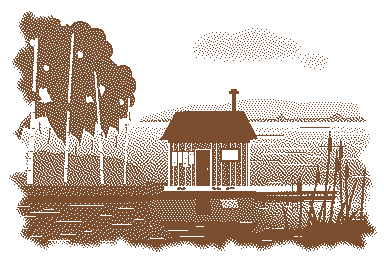
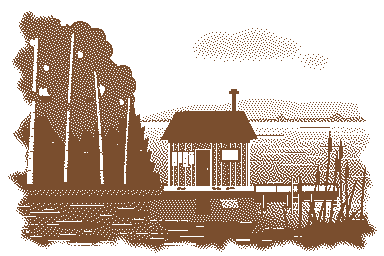
night closing with plate 2 in birch ink, a second form, and plate 1 finish

diff --git a/site/public/index.html b/site/public/index.html
@@ -40,7 +40,7 @@
 
   <main id="main">
     <section class="hero loops" aria-labelledby="hero-title">
-      <div class="wrap hero-grid">
+      <div class="wrap split">
         <div class="hero-copy">
           <h1 id="hero-title" class="display">Keep a sauna streak <span class="accent">together.</span></h1>
           <p class="lede">A weekly sauna streak for your family or your sauna crew. Everyone goes when they can, and you keep it together.</p>
@@ -256,10 +256,39 @@
       </div>
     </section>
 
-    <section class="closing" aria-labelledby="closing-title">
-      <div class="wrap">
-        <h2 id="closing-title" class="title">Your sauna crew is waiting.</h2>
-        <a class="button" href="#join">Join the waitlist</a>
+    <section class="closing night loops" aria-labelledby="closing-title">
+      <div class="wrap split">
+        <div>
+          <h2 id="closing-title" class="title">Your sauna crew is waiting.</h2>
+          <form class="join" method="post" action="/api/waitlist">
+            <div class="join-body">
+              <div class="join-fields">
+                <label class="join-label" for="closing-email">Your email</label>
+                <input class="field" id="closing-email" type="email" name="email" autocomplete="email" inputmode="email" required aria-describedby="closing-error">
+                <p class="join-error" id="closing-error" aria-live="polite"></p>
+                <label class="check"><input type="checkbox" name="beta" value="1"><span>I’d like to try the beta on TestFlight before then</span></label>
+                <input type="hidden" name="source" value="closing">
+                <div class="hp" aria-hidden="true"><label for="closing-website">Leave this field empty</label><input id="closing-website" type="text" name="website" tabindex="-1" autocomplete="off"></div>
+                <button class="button" type="submit">Join the waitlist</button>
+              </div>
+              <div class="join-done">
+                <p class="join-done-title" tabindex="-1">You’re on the list.</p>
+                <p>We’ll write once, when Saunafam is on the App Store.</p>
+                <p class="join-beta" hidden>We’ll send a TestFlight invite as soon as there’s room.</p>
+                <button class="link-button join-share" type="button">Send it to your sauna crew</button>
+                <p class="join-copied" aria-live="polite"></p>
+              </div>
+            </div>
+          </form>
+        </div>
+
+        <figure class="plate-fig">
+          <div class="plate">
+            <img src="/art/plate-2.png" width="384" height="256" alt="The same sauna after dark, its window glowing." loading="lazy" decoding="async">
+            <i class="glow"></i><i class="window"></i>
+          </div>
+          <figcaption class="fig"><span>fig. 2  same sauna, after dark</span><button class="pause" type="button"><span class="pause-word">pause</span><span class="vh"> the glow</span></button></figcaption>
+        </figure>
       </div>
     </section>
   </main>

diff --git a/site/public/styles.css b/site/public/styles.css
@@ -147,9 +147,9 @@ a { color: inherit; }
   background: var(--steam); color: var(--char); font: 400 17px/24px var(--sans);
 }
 
-/* Plate 1 shows at whole-number scales only, so its dots stay even. */
+/* Plates show at whole-number scales only, so its dots stay even. */
 .hero { padding: 32px 0 56px; overflow: hidden; }
-.hero-grid { display: grid; gap: 40px; align-items: center; }
+.split { display: grid; gap: 40px; align-items: center; }
 .hero-copy .display { max-width: 11ch; }
 .hero-copy .lede { margin-top: 20px; max-width: 30em; }
 .accent { color: var(--coal); }
@@ -159,7 +159,7 @@ a { color: inherit; }
 @media (min-width: 768px) { .plate { width: 768px; height: 512px; margin-left: calc(50% - 384px); } }
 @media (min-width: 960px) { .hero { padding: 56px 0 72px; } }
 @media (min-width: 1120px) {
-  .hero-grid { grid-template-columns: minmax(0, 440px) minmax(0, 1fr); gap: 48px; }
+  .split { grid-template-columns: minmax(0, 440px) minmax(0, 1fr); gap: 48px; }
   .plate { margin-left: 0; }
 }
 
@@ -411,9 +411,13 @@ a { color: inherit; }
 .faq details[open] summary::after { transform: rotate(0deg); opacity: 0; }
 .faq details p { padding: 0 40px 24px 0; color: var(--smoke); }
 
-/* Closing */
-.closing { padding: 56px 0 0; text-align: center; }
-.closing .title { margin: 0 auto 32px; max-width: 16ch; }
+/* Closing: the same paper at night. Coal fails on char, so night text,
+   links and errors are birch, secondary text ash. */
+.night { background: var(--char); color: var(--birch); }
+.closing { padding: 72px 0; overflow: hidden; }
+.closing .title { max-width: 12ch; }
+.night :is(.join-error, .link-button, .join-done .join-done-title) { color: var(--birch); }
+.night :is(.join-done p, .fig) { color: var(--ash); }
 
 /* Doc pages: privacy, support, join, 404 */
 .doc { padding: 32px 0 0; }

diff --git a/site/public/site.js b/site/public/site.js
@@ -27,13 +27,15 @@ Promise.race([
   }));
 });
 
-// Ambient loops hold still while paused (html.still), while the tab is
+// Ambient loops hold still while paused (html.still, set by any plate's
+// pause button, so one press stills every loop on the page), while the tab is
 // hidden (html.away) and while their section is off screen (.off).
 document.addEventListener('visibilitychange', () => root.classList.toggle('away', document.hidden));
 domReady.then(() => {
-  const pause = document.querySelector('.pause');
-  pause?.addEventListener('click', () => {
-    pause.firstChild.textContent = root.classList.toggle('still') ? 'play' : 'pause';
+  const pauses = document.querySelectorAll('.pause');
+  for (const pause of pauses) pause.addEventListener('click', () => {
+    const word = root.classList.toggle('still') ? 'play' : 'pause';
+    for (const p of pauses) p.firstChild.textContent = word;
   });
   if (!('IntersectionObserver' in window)) return;
   const shown = new IntersectionObserver((entries) => {
